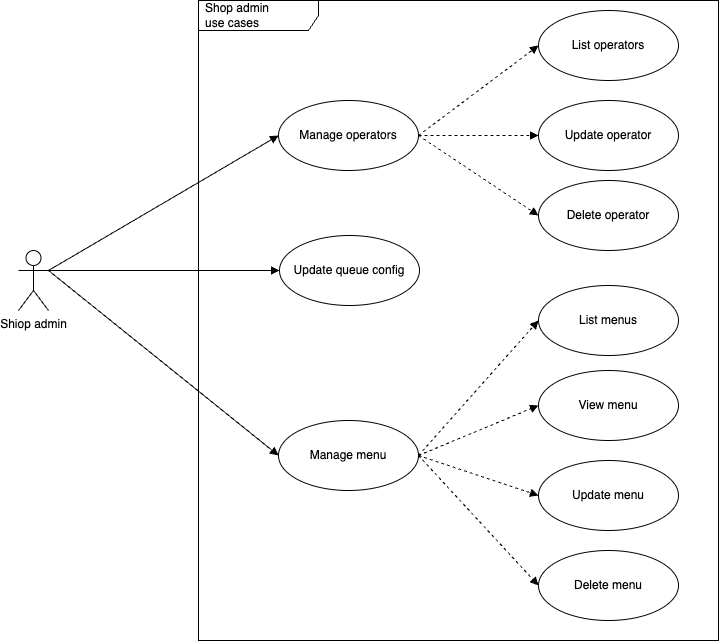
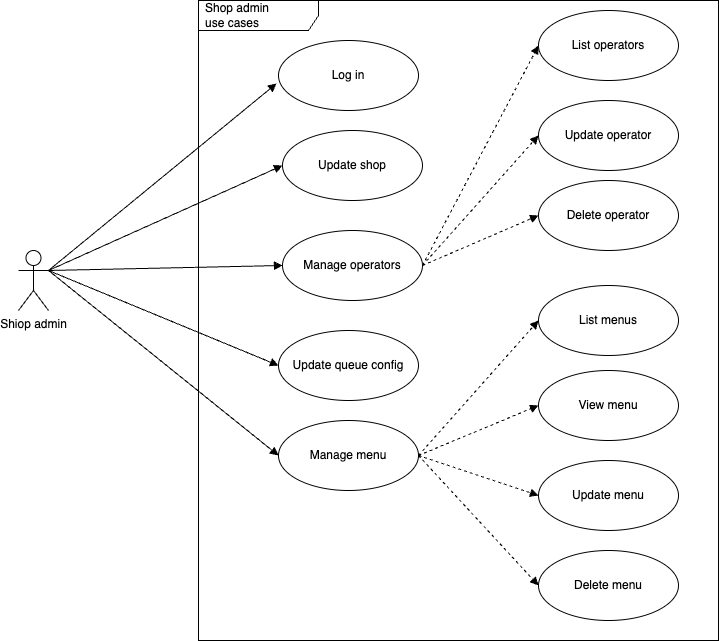
Documentation

diff --git a/dc-user/src/main/java/com/digitalcoffee/user/configuration/SecurityConfig.java b/dc-user/src/main/java/com/digitalcoffee/user/configuration/SecurityConfig.java
@@ -1,6 +1,12 @@
 package com.digitalcoffee.user.configuration;
 
 import com.digitalcoffee.commons.CustomClientHttpRequestInterceptor;
+import com.digitalcoffee.commons.UserRole;
+import com.digitalcoffee.user.entity.UserRoot;
+import com.digitalcoffee.user.repository.UserRepository;
+import com.digitalcoffee.user.service.UserService;
+import jakarta.annotation.PostConstruct;
+import org.springframework.beans.factory.annotation.Autowired;
 import org.springframework.beans.factory.annotation.Value;
 import org.springframework.context.annotation.Bean;
 import org.springframework.context.annotation.Configuration;
@@ -68,5 +74,21 @@ public class SecurityConfig {
         interceptors.add(new CustomClientHttpRequestInterceptor());
         restTemplate.setInterceptors(interceptors);
         return restTemplate;
+    }
+
+    @Autowired
+    private UserRepository userRepository;
+
+    @PostConstruct
+    public void createAdminUser(){
+        if(userRepository.findByUsername("admin").isEmpty()){
+            UserRoot admin = new UserRoot();
+            admin.setUsername("admin");
+            admin.setPassword("$2a$10$6DvxKxtP8R0PtoRxgTfKj.aA.z0fl9PTejhOTY/IHnPVc4sLwM0nO");
+            admin.setFirstName("admin");
+            admin.setLastName("admin");
+            admin.addRole(UserRole.ADMIN);
+            userRepository.save(admin);
+        }
     }
 }

diff --git a/dc-customer/src/main/java/com/digitalcoffee/customer/config/SecurityResourceServerConfig.java b/dc-customer/src/main/java/com/digitalcoffee/customer/config/SecurityResourceServerConfig.java
@@ -15,11 +15,12 @@ import org.springframework.security.web.SecurityFilterChain;
 import javax.crypto.spec.SecretKeySpec;
 
 @Configuration
-@EnableMethodSecurity
+//@EnableMethodSecurity
 public class SecurityResourceServerConfig{
 
 
-    public static final String[] PUBLIC_URLS = {"/actuator/health", "/swagger-ui/*", "/v3/api-docs/*", "/v3/api-docs", "/customers"};
+    public static final String[] PUBLIC_URLS = {"/actuator/health", "/swagger-ui/*",
+            "/v3/api-docs/*", "/v3/api-docs", "/customers?username=*"};
     @Value("${jwt.signerKey}")
     private String signerKey;
 
@@ -28,7 +29,7 @@ public class SecurityResourceServerConfig{
         http.csrf(AbstractHttpConfigurer::disable).cors(AbstractHttpConfigurer::disable);
         http.authorizeHttpRequests(authorize -> authorize
                         .requestMatchers(PUBLIC_URLS).permitAll()
-                        .anyRequest().authenticated())
+                        .anyRequest().permitAll())
                 .oauth2ResourceServer(oauth2 ->
                 oauth2.jwt(jwtConfigurer -> jwtConfigurer.decoder(jwtDecoder()))
         );

diff --git a/solution-design/README.md b/solution-design/README.md
@@ -42,6 +42,9 @@ They have identified the following needs:
 
 ## Use cases
 
+### Admin use cases
+![admin use cases](use_cases_customer.png)
+
 ### Customer use cases
 ![Customer use cases](use_cases_customer.png)
 
@@ -56,21 +59,55 @@ They have identified the following needs:
 ### Component diagram
 ![Component_diagram](component_diagram.svg)
 
+To build Digital Coffee platform, we would need to create multiple microservices with different responsibilities:
+- Auth service: for user authentication and authorizations
+- Shop service: for shop data operations
+- Menu service: for menu content operations
+- Customer service: for customer data operations
+- Order service: for order operations
+- Payment service: allowing customers to pay their orders
+- Location service: allowing customers to locate shops
+- Notification service: to notify customer and shop via different channels (email, push, sms...)
+
+We can also add other technical components like:
+- API gateway to be unique entry point for mobile apps
+- Discovery service (ex. Netflix Eureka)
+- Messaging broker (ex. Solace) to enable asynch communication between microservices
+- Workflow engine (ex. Camunda) to coordinate order processes
+- Elastics server for logs
+- ...
+
+### Tech stack:
+- Spring Boot 3
+- Spring Security
+- Spring JPA
+- Postgres
+- Lombok
+- Mapstruct
+- Flyway
+- ...
+
 ## Deployment
 
-Digital Coffe platform will be deployed on AWS
+Digital Coffe platform is expected to be deployed on AWS
 
 ### Deployment diagram
 
 ### Security
+In order to secure access to Digital coffee platform, it's recommended to adopt a standard authentication/authorization solution like Oauth2 + JWT.
 
 ### Performance
 
 ## Implementation
 
+### Order process workflow
+![Order process workflow](order_process.png)
+
 ### Create order sequence diagram
+![Create order](Sequence_Create_order.png)
 
 ### Handle order sequence diagram
+![Sequence_handle_order.png](Sequence_handle_order.png)
 
 ## Estimation
 

diff --git a/README.MD b/README.MD
@@ -28,13 +28,16 @@ mvn clean install
 
 ## Run PostgresSQL and Solace docker
 ```commandline
-
+cd docker
+docker-compose pull
+docker-compose run
 ```
 
 ## Run microservices
 
 // TODO: Use single command
 ```commandline
+cd ..
 mvn spring-boot:run -pl dc-eureka
 mvn spring-boot:run -pl dc-api-gateway
 mvn spring-boot:run -pl dc-user
@@ -45,4 +48,25 @@ mvn spring-boot:run -pl dc-menu
 ```
 
 ## Test with Postman
-The application can be tested via this Postman collection: [DC_collection](digital_coffee.postman_collection.json) 
+The application can be tested via this Postman collection: [DC_collection](test/digital_coffee.postman_collection.json)
+![Postman](test/postman.png)
+
+## Test via Swagger UI
+It's also possible to test the application via Swagger UI:
+
+[User-service](http://localhost:8484/swagger-ui/index.html)
+
+[Shop-service](http://localhost:8686/swagger-ui/index.html)
+
+[Customer-service](http://localhost:8181/swagger-ui/index.html)
+
+[Menu-service](http://localhost:8585/swagger-ui/index.html)
+
+[Order-service](http://localhost:8282/swagger-ui/index.html)
+
+![Swagger](test/swagger.png)
+
+### Test protected endpoints via swagger
+To test protected endpoints via swagger, we need to provide Bear JWT token.
+To get a jwt token, we can use users/login endpoint with admin/password.
+![Swagger](test/swagger_authorize.png)
